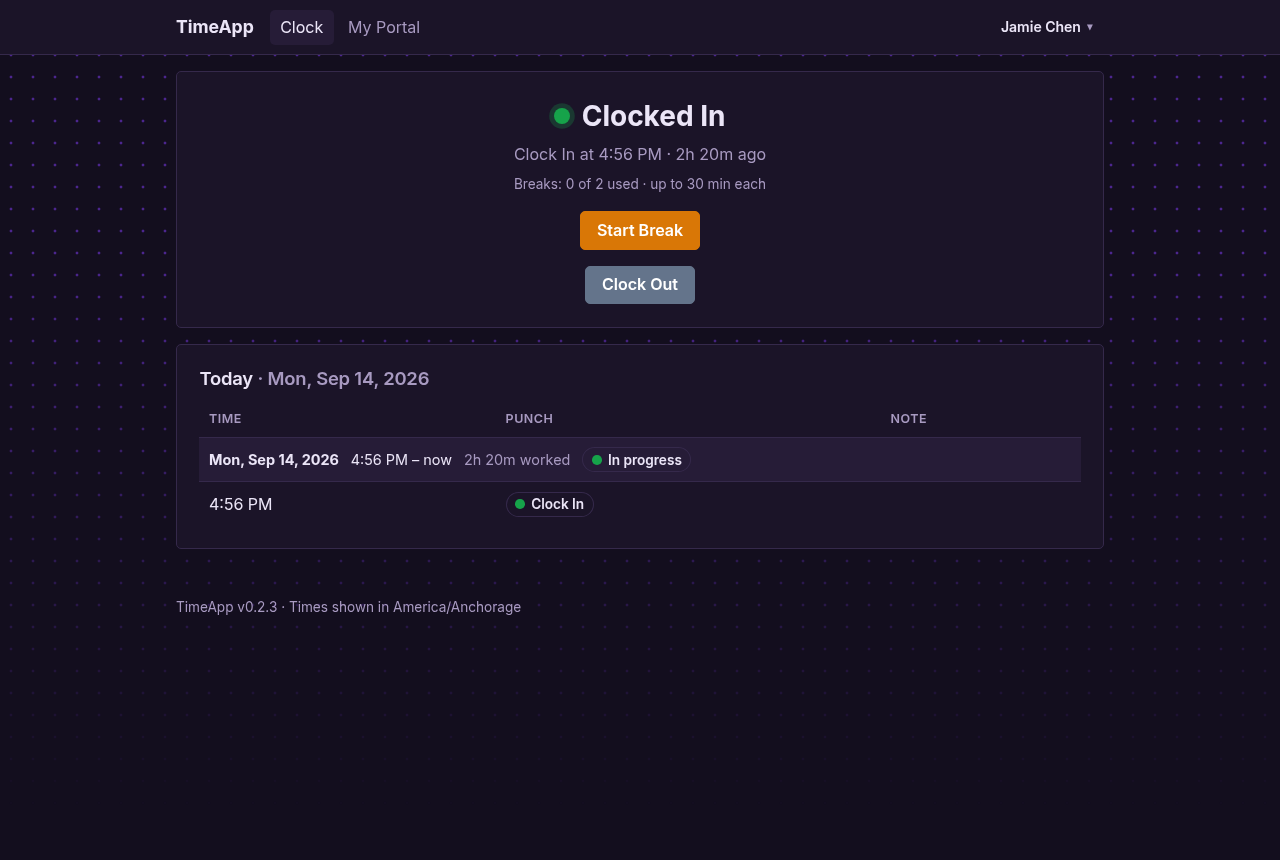
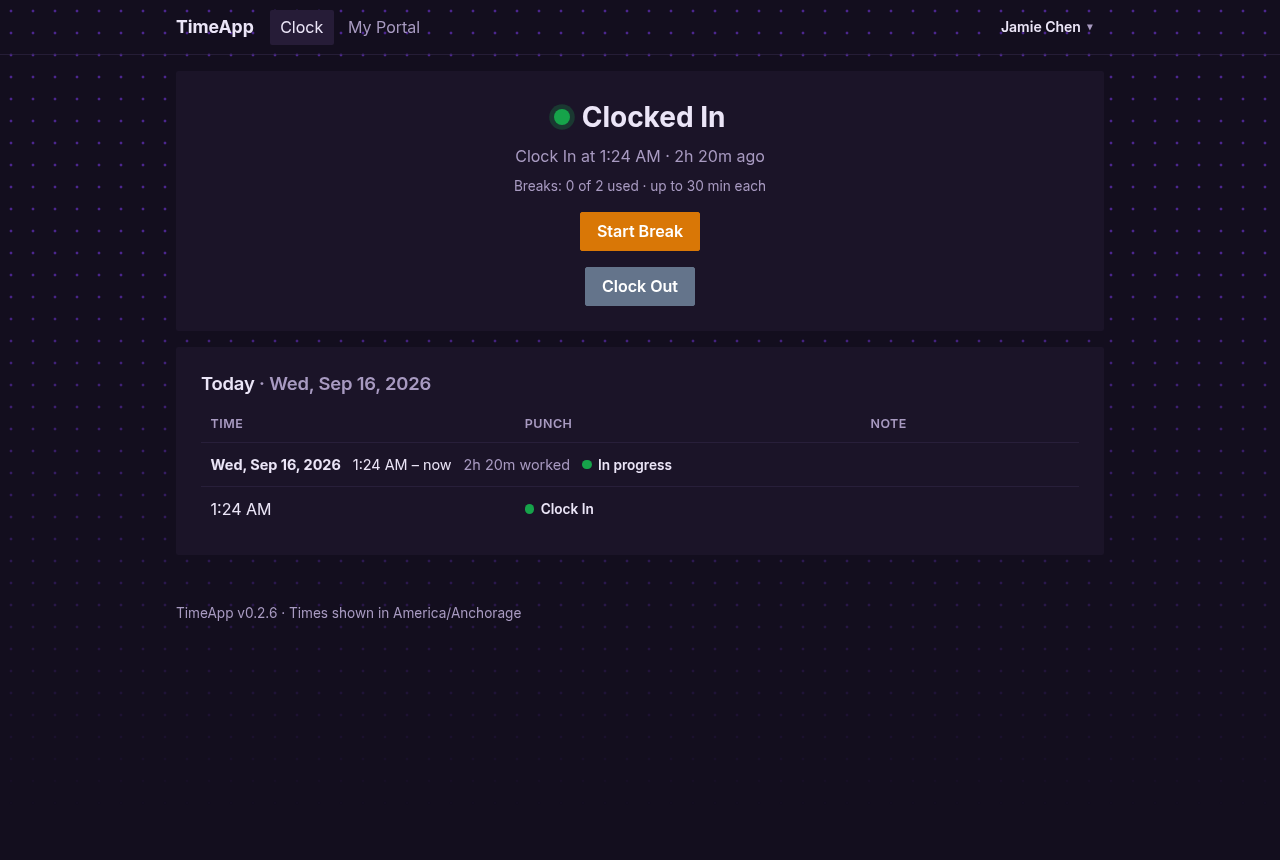
fixed 'minimal' style to actually be minimal

diff --git a/public/timeapp.css b/public/timeapp.css
@@ -1265,18 +1265,19 @@ h3 { font-size: 1rem; }
    (themes.js), and a font package in server.js + head.ejs if it needs one.
    --------------------------------------------------------------------- */
 
-/* Minimal: flat and quiet, Inter */
+/* Minimal: as little as possible. Inter, no shadows or fills, hairline edges, and space
+   instead of boxes: cards and the top bar lose their outlines, badges lose their pills. */
 [data-style="minimal"] {
   --font-family: "Inter Variable", system-ui, -apple-system, "Segoe UI", Roboto, sans-serif;
   --font-mono: ui-monospace, "SFMono-Regular", Menlo, Consolas, monospace;
   --font-heading: var(--font-family);
   --heading-transform: none;
   --heading-tracking: -0.01em;
-  --radius: var(--radius-2);
-  --radius-small: var(--radius-2);
+  --radius: var(--radius-1);
+  --radius-small: var(--radius-1);
   --radius-pill: 999px;
   --border-width: 1px;
-  --edge: var(--border);
+  --edge: color-mix(in srgb, var(--border) 55%, transparent); /* hairline, not a line */
   --shadow: none;
   --shadow-pop: var(--shadow-2);
   --shadow-big: none;
@@ -1284,9 +1285,20 @@ h3 { font-size: 1rem; }
   --transition: 120ms var(--ease-out-3);
 }
 [data-style="minimal"] :is(h1, h2, h3):not(.timesheet *) { font-weight: 600; }
-[data-style="minimal"] .card { padding: calc(var(--space) * 1.4); }
-[data-style="minimal"] .badge { background: transparent; box-shadow: inset 0 0 0 1px var(--edge); }
-[data-style="minimal"] .badge-warn { background: var(--warn-bg); }
+
+/* Cards and the top bar are shapes of color, not outlined boxes. */
+[data-style="minimal"] .card { padding: calc(var(--space) * 1.5); border-color: transparent; }
+[data-style="minimal"] .topbar { background: transparent; }
+[data-style="minimal"] .subnav { border-bottom-color: transparent; }
+
+/* Quieter tables: lighter rules, and no fill behind a shift's header row. */
+[data-style="minimal"] :is(.table th, .table td) { border-bottom-color: color-mix(in srgb, var(--border) 50%, transparent); }
+[data-style="minimal"] .shift-head th { background: transparent; }
+[data-style="minimal"] .shift-warn .shift-head th { background: var(--warn-bg); }
+
+/* Badges are a dot and a word; only warnings keep a background. */
+[data-style="minimal"] .badge { background: transparent; box-shadow: none; padding-inline: 0; }
+[data-style="minimal"] .badge-warn { background: var(--warn-bg); padding-inline: 0.6rem; }
 
 /* Minimal, Boxworld, and Blueprint: plain buttons are outlines; colored ones stay filled */
 :is([data-style="minimal"], [data-style="boxworld"], [data-style="blueprint"])

diff --git a/guide/APPEARANCE.md b/guide/APPEARANCE.md
@@ -33,7 +33,7 @@ A style changes fonts, corners, borders and shadows, but never colors, so every 
 | Style | Look |
 |---|---|
 | **Modern** | Rounded cards, soft shadows, your device's standard font. The default. |
-| **Minimal** | Flat and quiet: the Inter font, no shadows, gentle corners, outlined buttons and badges. |
+| **Minimal** | Pared back: the Inter font, no shadows, cards and the top bar without outlines, hairline rules, plain badges, and outlined buttons. |
 | **Boxworld** | Stripped down to boxes: square corners and bold outlines in the text color, with no shadows or tinted fills. Tabs and tables are boxed, and main buttons are solid. |
 | **Terminal** | Monospace text and square boxes, uppercase headings with a `>` prompt and a blinking cursor, faint scanlines, and a soft glow in dark mode. |
 | **Blueprint** | Like a technical drawing: the Space Grotesk font, uppercase monospace labels, a faint grid on cards with corner marks, and dashed input boxes. |
